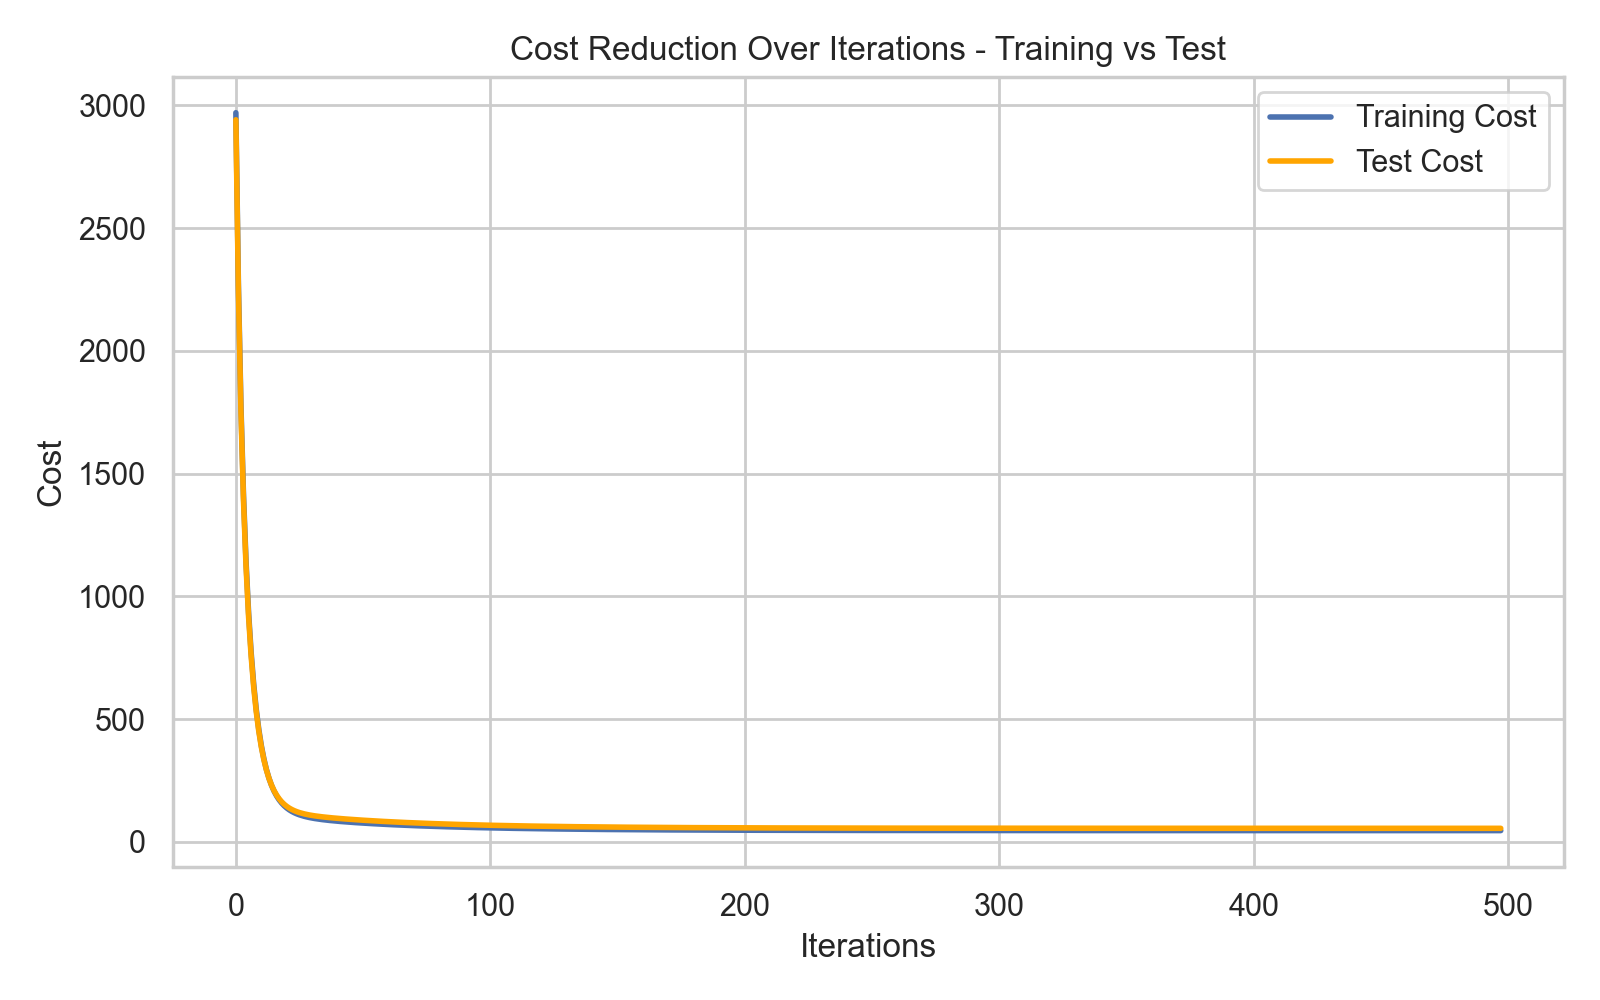
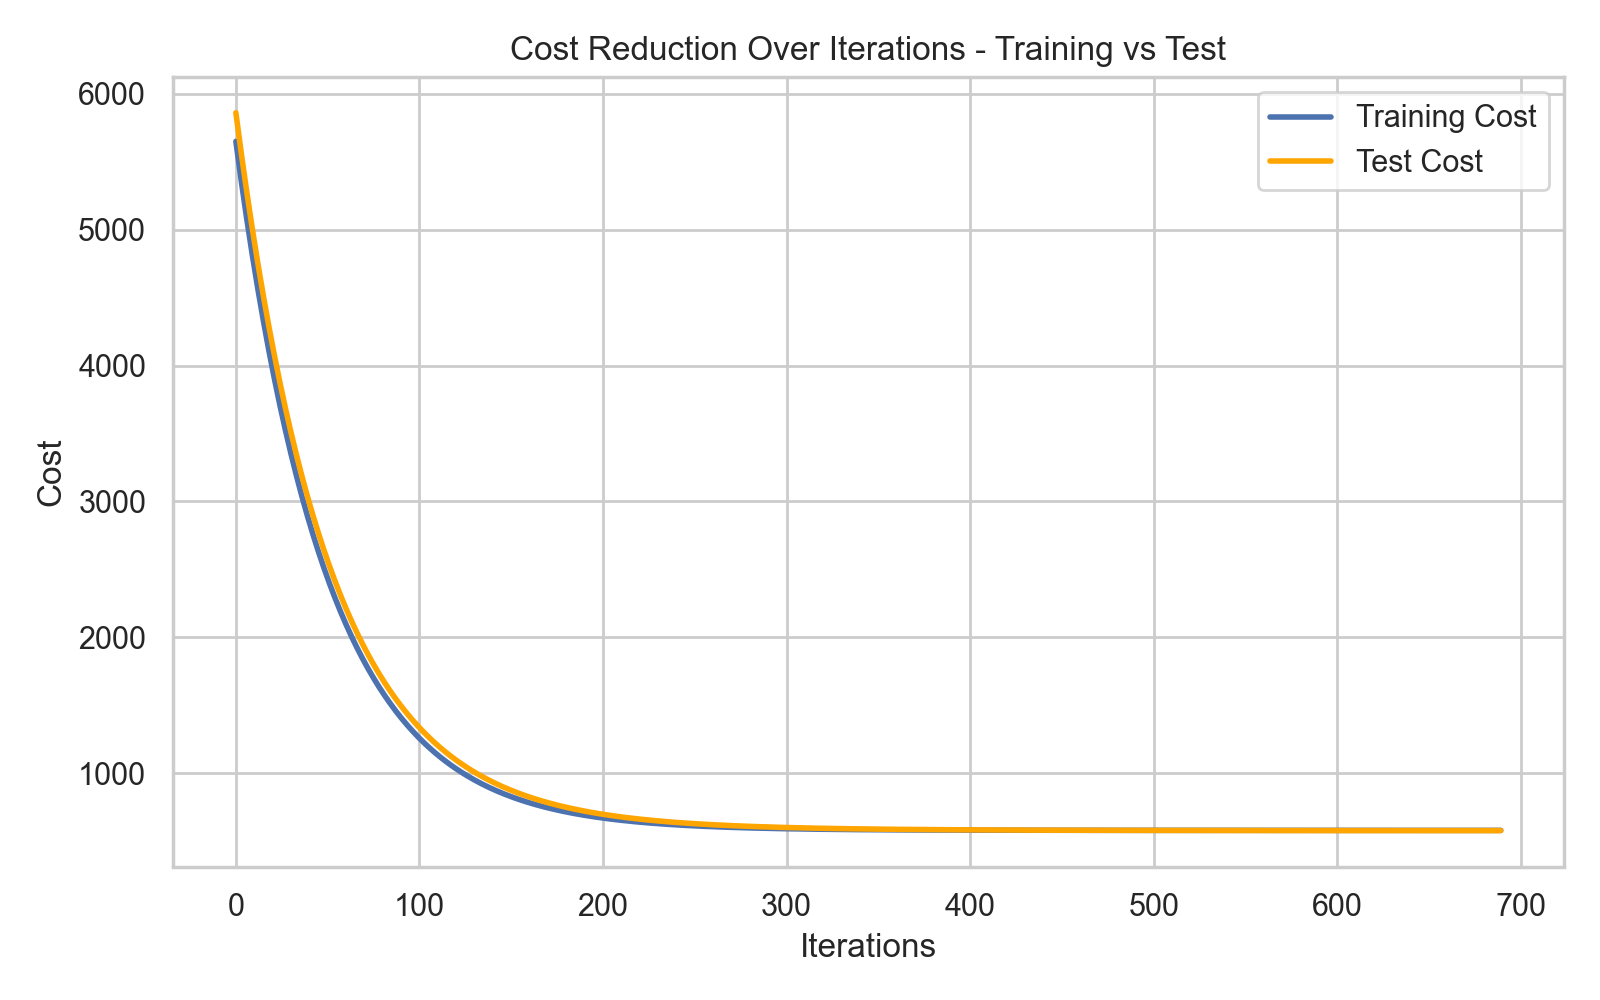
Ya entendí la importancia de transformar los datos

diff --git a/main.py b/main.py
@@ -40,9 +40,9 @@ def PrepareEnviorments(X: pd.DataFrame, y: pd.DataFrame):
     X_train, X_rest, y_train, y_rest = train_test_split(X, y, test_size=0.3, random_state=42)
     X_val, X_test, y_val, y_test = train_test_split(X_rest, y_rest, test_size=0.5, random_state=42)
 
-    #X_train = (X_train - X_train.mean()) / X_train.std()
-    #X_val = (X_val - X_val.mean()) / X_val.std()
-    #X_test = (X_test - X_test.mean()) / X_test.std()
+    X_train = (X_train - X_train.mean()) / X_train.std()
+    X_val = (X_val - X_val.mean()) / X_val.std()
+    X_test = (X_test - X_test.mean()) / X_test.std()
 
     data_splits = classes.DataSplits(X_train.to_numpy(),
                                      X_val.to_numpy(),
@@ -81,7 +81,7 @@ def PredictSet(X_val: np.ndarray, y_val: np.ndarray, thetas: np.ndarray, bias: f
         f.write(f"R²:   {r2:.4f}\n\n")
 
 
-def ShowParameters(thetas: np.ndarray, bias: float, data_name: str="calories", column_names: list=["Age", "Duration", "Heart_Rate", "Body_Temp"]):
+def ShowParameters(thetas: np.ndarray, bias: float, data_name: str="calories", column_names: list=["Age", "Duration", "Heart_Rate"], method: str="w"):
     """
     Save the model parameters and bias in a txt file.
     
@@ -92,7 +92,7 @@ def ShowParameters(thetas: np.ndarray, bias: float, data_name: str="calories", c
     
     
     output_file = f"report/{data_name}_metrics.txt"
-    with open(output_file, "w") as f:
+    with open(output_file, method) as f:
         f.write("=== Model Parameters ===\n")
         for i, theta in enumerate(thetas):
             f.write(f"Theta {i} ({column_names[i]}): {theta[0]:.6f}\n")
@@ -133,19 +133,19 @@ if __name__ == "__main__":
     df = LoadData("data/calories.csv")
 
     
-    df = cln.EraseOutliersByZScore(df, "Height", 3.0)
-    df = cln.EraseOutliersByIQR(df, "Weight", 1.5)
-    df = cln.EraseOutliersByTemperature(df, 40.7)
-    df = cln.BinaryMap(df, "Gender", "female", "male")
+    
 
-    X = df[["Age", "Duration", "Heart_Rate", "Body_Temp"]]
+    column_names = ["Age", "Body_Temp", "Height"]
+    X = df[column_names]
     y = df["Calories"]
 
     data_splits = PrepareEnviorments(X, y)
 
-    thetas = np.array([1, 1, 1, 1]).reshape(-1,1)
+    #Thetas del tamaño de columns_names
+    
+    thetas = np.ones((len(column_names), 1))
     bias = 1
-    learning_rate = 0.1
+    learning_rate = 0.01
     iterations = 10000
     min_cost_decrease = 0.0001
     
@@ -155,7 +155,7 @@ if __name__ == "__main__":
 
     params, cost_history = gd.GradientDescent(data_splits, params, hyper_parms)
 
-    ShowParameters(params.thetas, params.bias)
+    ShowParameters(params.thetas, params.bias, "calories", column_names)
     PredictSet(data_splits.X_train, data_splits.y_train, params.thetas, params.bias, "Training", "calories")
     PredictSet(data_splits.X_val, data_splits.y_val, params.thetas, params.bias, "Validation", "calories")
     PredictSet(data_splits.X_test, data_splits.y_test, params.thetas, params.bias, "Test", "calories")
@@ -195,52 +195,41 @@ if __name__ == "__main__":
             f.write(f" - {param}: {value}\n")
         f.write("\n")
     
-    #=====RAW STEAM DATASET=====#
-    """_summary_
-    df = LoadData("data/steam.csv")
+
+    #=====IMPROVE CALORIES DATASET=====#"""
+
     
-    df = df.dropna()
-    owners_split = df["owners"].str.split("-", expand=True).astype(int)
-    df["owners"] = ((owners_split[0] + owners_split[1]) // 2)
+    df = cln.EraseOutliersByZScore(df, "Height", 3.0)
+    df = cln.EraseOutliersByIQR(df, "Weight", 1.5)
+    df = cln.EraseOutliersByTemperature(df, 40.7)
+    df = cln.BinaryMap(df, "Gender", "female", "male")
     
-    df = cln.GetDummiesUsingSemicolon(df, "platforms")
+    df["Calories_ln"] = np.log(df["Calories"])
     
-    df["positive_ratio"] = (df["positive_ratings"] / (df["positive_ratings"] + df["negative_ratings"]))*100
-    
-    dummies_list = ["categories", "genres", "steamspy_tags"]
-    columns = []
-    df, columns = cln.GetTopDummiesCorrelation(df, dummies_list, "positive_ratio", top_n=5, colineal_threshold=0.5)
-    
-    total_columns = columns + ["price", "owners", "average_playtime"]
-    
-    X = df[total_columns]
-    y = df["positive_ratio"]
-    
+    column_names = ["Age", "Body_Temp", "Height", "Gender"]
+    X = df[column_names]
+    y = df["Calories_ln"]
+
     data_splits = PrepareEnviorments(X, y)
+
+    #Thetas del tamaño de columns_names
     
-    print(data_splits.X_train.shape)
-    thetas = np.array([1] * data_splits.X_train.shape[1]).reshape(-1,1)
-    print("thetas shape:", thetas.shape)
+    thetas = np.ones((len(column_names), 1))
     bias = 1
     learning_rate = 0.01
-    iterations = 10
+    iterations = 10000
     min_cost_decrease = 0.0001
     
     params = classes.Params(thetas, bias)
     cost_history = classes.CostHistory([], [], [])
     hyper_parms = classes.HyperParams(learning_rate, iterations, min_cost_decrease)
+
     params, cost_history = gd.GradientDescent(data_splits, params, hyper_parms)
-    
-    ShowParameters(params.thetas, params.bias, "raw_steam", total_columns)
-    PredictSet(data_splits.X_train, data_splits.y_train, params.thetas, params.bias, "Training", "raw_steam")
-    PredictSet(data_splits.X_val, data_splits.y_val, params.thetas, params.bias, "Validation", "raw_steam")
-    PredictSet(data_splits.X_test, data_splits.y_test, params.thetas, params.bias, "Test", "raw_steam")
-    VisualizeTraining(cost_history.cost_history_train, cost_history.cost_history_val, "Training vs Validation Raw Steam", "Training", "Validation")
-    VisualizeTraining(cost_history.cost_history_train, cost_history.cost_history_test, "Training vs Test Raw Steam", "Training", "Test")
-    """
-    
 
-
+    ShowParameters(params.thetas, params.bias, "calories", column_names, "a")
+    PredictSet(data_splits.X_train, data_splits.y_train, params.thetas, params.bias, "Training", "calories")
+    PredictSet(data_splits.X_val, data_splits.y_val, params.thetas, params.bias, "Validation", "calories")
+    PredictSet(data_splits.X_test, data_splits.y_test, params.thetas, params.bias, "Test", "calories")
     
-
-    
+    VisualizeTraining(cost_history.cost_history_train, cost_history.cost_history_val, "Training vs Validation Improved", "Training", "Validation")
+    VisualizeTraining(cost_history.cost_history_train, cost_history.cost_history_test, "Training vs Test Improved")

diff --git a/transform/cleaning.py b/transform/cleaning.py
@@ -61,68 +61,3 @@ def EraseOutliersByTemperature(df: pd.DataFrame, max: float = 40.7):
     pd.DataFrame: DataFrame without outliers in the 'Body_Temp' column.
     """
     return df[df['Body_Temp'] <= max]
-
-
-def GetDummiesUsingSemicolon(df: pd.DataFrame, column: str):
-    """
-    Convert a column with semicolon-separated values into multiple binary columns.
-    Parameters:
-    df (pd.DataFrame): Input DataFrame.
-    column (str): Column name containing semicolon-separated values.
-    Returns:
-    pd.DataFrame: DataFrame with new binary columns for each unique value.
-    """
-
-    platform_dummies = df["platforms"].str.get_dummies(sep=";")
-    df = pd.concat([df, platform_dummies], axis=1)
-    
-    return df
-
-def GetTopDummiesCorrelation(df: pd.DataFrame, columns: list, target: str, top_n: int = 5, colineal_threshold: float = 0.1):
-    """
-    Select top N columns based on their correlation with the target variable,
-    while avoiding colinearity among the selected columns.
-    Parameters:
-    df (pd.DataFrame): Input DataFrame.
-    columns (list): List of column names to consider for correlation.
-    target (str): Target variable name.
-    top_n (int): Number of top correlated columns to select.
-    colineal_threshold (float): Threshold to determine colinearity between columns.
-    Returns:
-    pd.DataFrame: DataFrame with selected top N correlated columns added.
-    list: List of selected column names.
-    """
-    
-    
-    df_dummies = pd.DataFrame()
-    for column in columns:
-        dummies = df[column].str.get_dummies(sep=";")
-        dummies = dummies.add_prefix(f"{column}_")
-        df_dummies = pd.concat([df_dummies, dummies], axis=1)
-    
-    df_dummies = pd.concat([df[target], df_dummies], axis=1)
-        
-        
-
-    correlations = df_dummies.corr()[target].abs().sort_values(ascending=False)
-    correlations = correlations[correlations.index != target]
-    
-
-    correlations = correlations.sort_values(ascending=False)
-    
-
-    selected_columns = []
-    for col in correlations.index:
-        es_colineal = False
-        for sel_col in selected_columns:
-            if abs(df_dummies[col].corr(df_dummies[sel_col])) > colineal_threshold:
-                es_colineal = True
-                break
-        if not es_colineal:
-            selected_columns.append(col)
-        if len(selected_columns) >= top_n:
-            break
-    
-    df = pd.concat([df, df_dummies[selected_columns]], axis=1)
-    return df, selected_columns
-    
